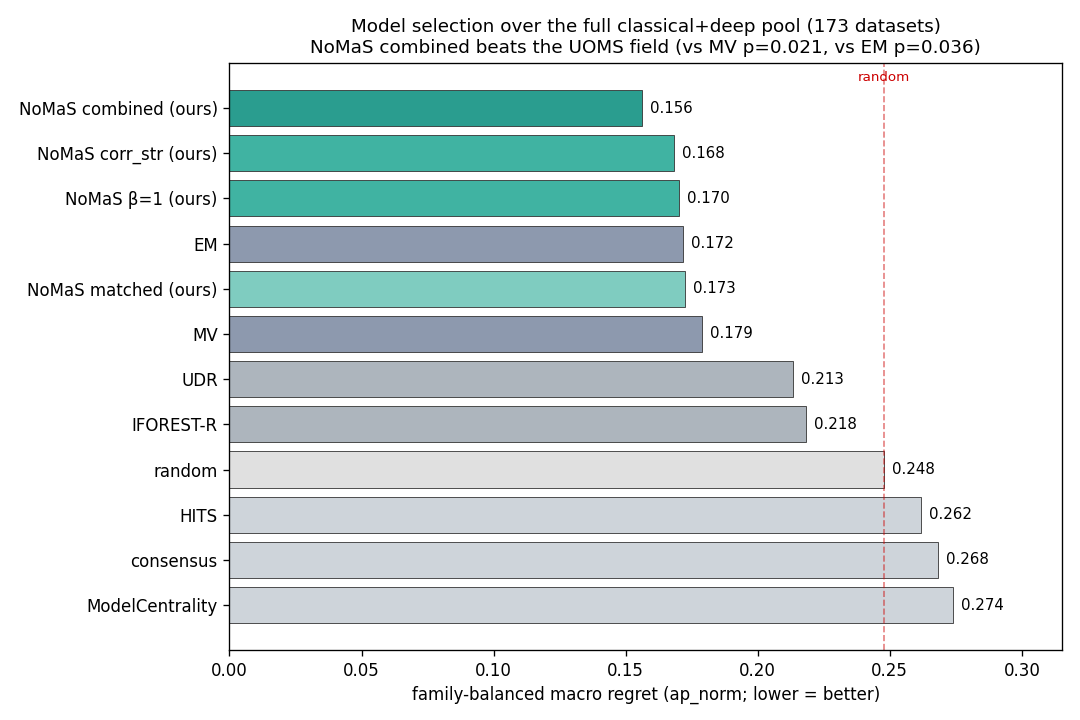
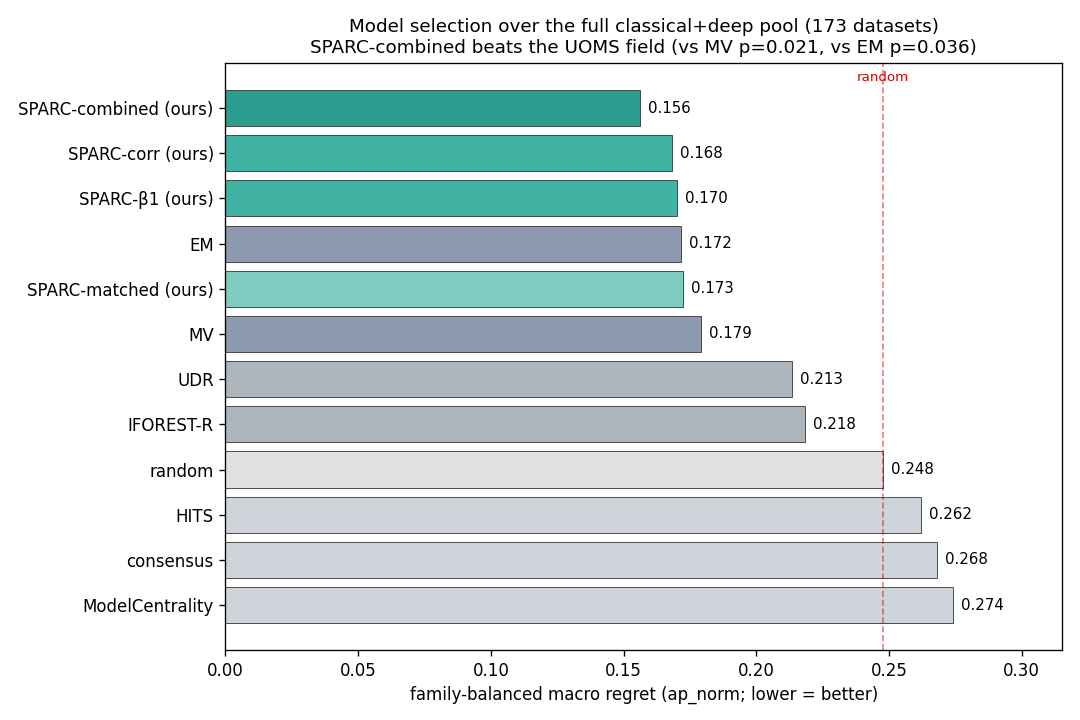
HADB: SPARC naming + anisotropic/isotropic axis, EDA figure, IREOS, AP-probe
- Rename method to SPARC (Synthetic-Probe Anomaly-detector Routing by Correlation);
  axis = anisotropic<->isotropic (dataset property), local/global = detectors.
- FIG_spectrum_eda.png: money-figure demonstrating spectrum shape -> detector family.
- IREOS baseline (ireos_leaderboard.py): degenerate ~random on leak-free val, like
  consensus/MC/HITS (need real outliers present).
- AP-probe (ap_probe_test.py): grading synthetics by ap_norm beats AUC on routed
  selectors (matched 0.137->0.128, combined 0.129->0.126 macro); adopt AP-probe.
- mine extended to all 173; joint continuous alpha (set_alpha_spectrum) shown to hurt.
- FIG_final_leaderboard.png relabeled SPARC.

diff --git a/experiments/streamline/eda_spectrum.py b/experiments/streamline/eda_spectrum.py
@@ -1,0 +1,85 @@
+# -*- coding: utf-8 -*-
+"""EDA money-figure: ANISOTROPIC (correlated, steep spectrum, local-detector) vs ISOTROPIC (uncorrelated,
+flat spectrum, global-detector) datasets. Per exemplar: (col1) PCA eigenvalue spectrum bar (steep vs flat),
+(col2) PC1-PC2 scatter of normals (grey) + hard anomalies (red) - anomalies fill voids/off-manifold for
+anisotropic, sit as marginal extremes for isotropic. 2 anisotropic rows + 2 isotropic rows."""
+import os, sys, warnings
+import numpy as np, pandas as pd
+import matplotlib; matplotlib.use("Agg"); import matplotlib.pyplot as plt
+from sklearn.preprocessing import StandardScaler
+from sklearn.decomposition import PCA
+warnings.filterwarnings("ignore")
+ROOT = r"E:\Projects\Submitted\ADRank"; S = r"E:\tmp\claude\E--Projects-Submitted-ADRank\236d6247-42ad-4e62-9828-db625dfa055d"
+D = os.path.join(S, "scratchpad", "streamline"); sys.path.insert(0, os.path.join(S, "scratchpad")); sys.path.insert(0, os.path.join(ROOT, "src"))
+import adrank.pipeline as PP
+from hadb_ts_final import W, STRIDE, block_split3
+from hadb_ts_mts import mts_window_features, window_labels as mts_wlabels, load_mts
+Q = 0.05
+OBJ = {}
+for sub in ("adbench", "dami"):
+    dd = os.path.join(ROOT, "data", sub)
+    if os.path.isdir(dd):
+        for ds in PP.load_npz_dir(dd): OBJ[(sub, str(ds.name)[:40])] = (np.nan_to_num(np.asarray(ds.X, float)), np.asarray(ds.y, int).ravel())
+MTS = {}
+for name, src, Xc, lab in load_mts(200): MTS[str(name)[:40]] = (Xc, lab)
+def severity(Xtr, X, bins=30):
+    n, d = X.shape; sev = np.zeros(n)
+    for j in range(d):
+        tr = np.sort(Xtr[:, j])
+        if tr[-1] - tr[0] < 1e-12: continue
+        m = len(tr); fb = np.searchsorted(tr, X[:, j], side="right") / m
+        cnt, edges = np.histogram(Xtr[:, j], bins=bins); dens = cnt / max(cnt.sum(), 1); b = np.clip(np.digitize(X[:, j], edges[1:-1]), 0, bins - 1)
+        sev = np.maximum(sev, np.maximum(-np.log(np.maximum(2 * np.minimum(fb, 1 - fb), 1.0 / (2 * m))), -np.log(dens[b] + 1e-9)))
+    return sev
+def harden(Xtr, Xhold, Xa):
+    tho = np.quantile(severity(Xtr, Xhold), 1 - Q); so_a = severity(Xtr, Xa)
+    try:
+        sc = StandardScaler().fit(Xtr); pca = PCA(n_components=0.95, whiten=True, random_state=0).fit(sc.transform(Xtr))
+        Ptr, Ph, Pa = pca.transform(sc.transform(Xtr)), pca.transform(sc.transform(Xhold)), pca.transform(sc.transform(Xa))
+        thp = np.quantile(severity(Ptr, Ph), 1 - Q); sp_a = severity(Ptr, Pa)
+    except Exception:
+        sp_a = np.zeros(len(Xa)); thp = np.inf
+    return Xa[~((so_a > tho) | (sp_a > thp))]
+def get3(corp, name):
+    if corp in ("oddbench", "ovrbench"):
+        d = np.load(os.path.join(ROOT, "data", corp, name + ".npz"), allow_pickle=True)
+        X = np.nan_to_num(np.vstack([np.asarray(d["train"], float), np.asarray(d["test"], float)])); y = np.concatenate([np.asarray(d["train_labels"]).ravel(), np.asarray(d["test_labels"]).ravel()]).astype(int); Xn, Xa = X[y == 0], X[y == 1]
+    elif corp in ("adbench", "dami"):
+        X, y = OBJ[(corp, name)]; Xn, Xa = X[y == 0], X[y == 1]
+    else:
+        Xc, lab = MTS[name]; Xw, st = mts_window_features(Xc); yw = mts_wlabels(lab, st); Xw = np.nan_to_num(Xw)
+        pos = np.arange(len(Xw)); tr, va, te = block_split3(yw, pos, 0); return Xw[tr][yw[tr] == 0], Xw[va][yw[va] == 0], Xw[te][yw[te] == 0], Xw[yw == 1]
+    r = np.random.default_rng(0)
+    if len(Xn) > 6000: Xn = Xn[r.choice(len(Xn), 6000, replace=False)]
+    idx = np.arange(len(Xn)); r.shuffle(idx); a, b = int(0.6 * len(idx)), int(0.8 * len(idx)); return Xn[idx[:a]], Xn[idx[a:b]], Xn[idx[b:]], Xa
+mine = pd.read_csv(os.path.join(D, "STREAM_MINE.csv"))
+aniso = mine[mine.fam == "local"].sort_values("corr_str", ascending=False)
+iso = mine[mine.fam == "global"].sort_values("corr_str")
+def pick(cand, k=2):
+    out = []
+    for _, r in cand.iterrows():
+        try: Xtr, Xval, Xtn, Xa = get3(r.corpus, r.dataset)
+        except Exception: continue
+        if Xtr.shape[1] < 3 or len(Xtr) < 60 or len(Xa) < 15: continue
+        Xh = harden(Xtr, np.vstack([Xval, Xtn]), Xa)
+        if len(Xh) < 20: continue
+        out.append((r.corpus, r.dataset, r.corr_str, r.eff_dim, Xtr, Xh))
+        if len(out) >= k: break
+    return out
+rows = pick(aniso, 2) + pick(iso, 2)
+labels = ["ANISOTROPIC (correlated) \u2192 LOCAL detector", "ANISOTROPIC (correlated) \u2192 LOCAL detector",
+          "ISOTROPIC (uncorrelated) \u2192 GLOBAL detector", "ISOTROPIC (uncorrelated) \u2192 GLOBAL detector"]
+fig, axes = plt.subplots(len(rows), 2, figsize=(11, 3.1 * len(rows)))
+for i, (corp, name, cs, ed, Xtr, Xh) in enumerate(rows):
+    sc = StandardScaler().fit(Xtr); Ztr = sc.transform(Xtr); pca = PCA().fit(Ztr); ev = pca.explained_variance_ratio_
+    col = "#2a9d8f" if i < 2 else "#e76f51"; tag = "ANISOTROPIC" if i < 2 else "ISOTROPIC"
+    axs = axes[i, 0]; kk = min(15, len(ev)); axs.bar(range(1, kk + 1), ev[:kk], color=col)
+    axs.set_title(f"[{tag}]  {name[:22]} \u2014 {'STEEP' if i<2 else 'FLAT'} spectrum", fontsize=9, color=col, fontweight="bold"); axs.set_xlabel("principal component"); axs.set_ylabel("variance frac"); axs.set_ylim(0, max(ev[0] * 1.1, 0.1))
+    axs.text(0.97, 0.9, f"corr_str={cs:.2f}\neff_dim={ed:.1f}", transform=axs.transAxes, ha="right", va="top", fontsize=8.5, bbox=dict(fc="white", ec=col, alpha=.85))
+    axc = axes[i, 1]; P2 = PCA(2, random_state=0).fit(Ztr); Pn = P2.transform(Ztr); Ph = P2.transform(sc.transform(Xh))
+    rng = np.random.default_rng(0); Pn = Pn if len(Pn) <= 1200 else Pn[rng.choice(len(Pn), 1200, replace=False)]
+    axc.scatter(Pn[:, 0], Pn[:, 1], s=5, c="#c8c8c8", alpha=.5, linewidths=0); axc.scatter(Ph[:, 0], Ph[:, 1], s=14, c="#c0392b", alpha=.85, linewidths=0)
+    axc.set_title(f"{'thin manifold, anomalies off it \u2192 LOCAL' if i<2 else 'round cloud, anomalies at margins \u2192 GLOBAL'}", fontsize=9, color=col); axc.set_xlabel("PC1"); axc.set_ylabel("PC2"); axc.set_xticks([]); axc.set_yticks([])
+plt.suptitle("The anisotropic \u2194 isotropic axis: the normal-data spectrum shape determines which detector wins", fontsize=12, fontweight="bold")
+plt.tight_layout(rect=[0, 0, 1, 0.965]); fig.savefig(os.path.join(D, "FIG_spectrum_eda.png"), dpi=120)
+print("exemplars:", [(r[1][:20], round(r[2], 2)) for r in rows]); print("saved FIG_spectrum_eda.png")

diff --git a/experiments/streamline/ap_probe_test.py b/experiments/streamline/ap_probe_test.py
@@ -1,0 +1,75 @@
+# -*- coding: utf-8 -*-
+"""Does an AP-based synthetic probe beat the AUC probe? For each detector grade its synthetic separation
+BOTH ways: AUC (current) and ap_norm (aligns the probe metric with the target). Compare the resulting
+selectors (beta1, matched, corr_str, combined) under each probe. Classical pool, bundle splits
+(construct-matched). Incremental per-dataset CSV + resume."""
+import os, sys, io, contextlib, warnings
+import numpy as np, pandas as pd
+from scipy.stats import wilcoxon
+from sklearn.metrics import roc_auc_score, average_precision_score
+warnings.filterwarnings("ignore")
+S = r"E:\tmp\claude\E--Projects-Submitted-ADRank\236d6247-42ad-4e62-9828-db625dfa055d"
+D = os.path.join(S, "scratchpad", "streamline"); sys.path.insert(0, os.path.join(S, "scratchpad")); sys.path.insert(0, r"E:\Projects\Submitted\ADRank\src")
+from dev_common import TAB_POOL
+LOCAL = ("LOF", "KNN", "CBLOF"); GLOBAL = ("HBOS", "COPOD", "ECOD", "PCA")
+fam = lambda v: "local" if str(v).startswith(LOCAL) else ("global" if str(v).startswith(GLOBAL) else "other")
+TAU = -0.14; OUT = os.path.join(D, "STREAM_APPROBE.csv"); BUN = os.path.join(D, "bundle")
+def _H(Xn, cap=98):
+    H = []
+    for j in range(Xn.shape[1]):
+        col = Xn[:, j]; cnt, edges = np.histogram(col, bins=30); dens = cnt / max(cnt.sum(), 1)
+        lo, hi = np.percentile(col, 100 - cap), np.percentile(col, cap); ctr = (edges[:-1] + edges[1:]) / 2
+        H.append((edges, dens, (cnt > 0) & (ctr >= lo) & (ctr <= hi)))
+    return H
+def gen_beta(Xn, ns, beta, frac=0.4, seed=0):
+    rng = np.random.default_rng(seed); n, d = Xn.shape; H = _H(Xn); out = np.empty((ns, d))
+    for r in range(ns):
+        base = Xn[rng.integers(n)].copy()
+        for j in rng.choice(d, max(1, int(frac * d)), replace=False):
+            edges, dens, allowed = H[j]; w = np.where(allowed, np.maximum(dens, 1e-6) ** beta, 0.0)
+            base[j] = Xn[rng.integers(n), j] if w.sum() == 0 else rng.uniform(*edges[[(b := rng.choice(len(w), p=w / w.sum())), b + 1]])
+        out[r] = base
+    return out
+def apn(y, s):
+    bb = y.mean(); return (average_precision_score(y, s) - bb) / (1 - bb + 1e-12) if 0 < bb < 1 else np.nan
+idx = pd.read_csv(os.path.join(BUN, "_index.csv")); mine = pd.read_csv(os.path.join(D, "STREAM_MINE.csv")); mine["key"] = mine.corpus + "__" + mine.dataset
+corr = dict(zip(mine.key, mine.corr_str))
+done = set(pd.read_csv(OUT).dataset) if os.path.exists(OUT) else set(); fo = open(OUT, "a")
+if not done: fo.write("key,truefam,cs,reg_b1_auc,reg_b1_ap,reg_m_auc,reg_m_ap,reg_p1,reg_pe_auc,reg_pe_ap,lev_auc,lev_ap\n"); fo.flush()
+for _, rr in idx.iterrows():
+    key = rr.key
+    if key in done: continue
+    try: z = np.load(os.path.join(BUN, key + ".npz")); Xtr, Xval, Xtn, Xh = z["Xtr"], z["Xval"], z["Xtn"], z["Xh"]
+    except Exception: continue
+    Xte = np.vstack([Xtn, Xh]); yte = np.r_[np.zeros(len(Xtn)), np.ones(len(Xh))]; base = yte.mean()
+    syn1, syn4 = gen_beta(Xval, 200, 1.0), gen_beta(Xval, 200, -4.0); ye1 = np.r_[np.zeros(len(Xval)), np.ones(200)]
+    names, ap, a1u, a4u, a1p, a4p = [], {}, {}, {}, {}, {}
+    for vn, ct in TAB_POOL:
+        try:
+            m = ct()
+            with contextlib.redirect_stdout(io.StringIO()): m.fit(Xtr)
+            st = np.asarray(m.decision_function(Xte), float); sv = np.asarray(m.decision_function(Xval), float)
+            s1 = np.asarray(m.decision_function(syn1), float); s4 = np.asarray(m.decision_function(syn4), float)
+            if not (np.all(np.isfinite(st)) and np.nanstd(st) > 1e-12): continue
+            names.append(vn); ap[vn] = (average_precision_score(yte, st) - base) / (1 - base + 1e-12)
+            a1u[vn] = roc_auc_score(ye1, np.r_[sv, s1]); a4u[vn] = roc_auc_score(ye1, np.r_[sv, s4])
+            a1p[vn] = apn(ye1, np.r_[sv, s1]); a4p[vn] = apn(ye1, np.r_[sv, s4])
+        except Exception: pass
+    if len(names) < 6: continue
+    av = pd.Series(ap); best = av.max()
+    p1u = max(names, key=lambda v: a1u[v]); peu = max(names, key=lambda v: a4u[v]); levu = max(a1u.values()) - max(a4u.values())
+    p1p = max(names, key=lambda v: a1p[v]); pep = max(names, key=lambda v: a4p[v]); levp = max(a1p.values()) - max(a4p.values())
+    loc = [ap[v] for v in names if fam(v) == "local"]; glo = [ap[v] for v in names if fam(v) == "global"]
+    tf = "local" if (loc and (not glo or max(loc) > max(glo))) else "global"
+    fo.write(f"{key},{tf},{corr.get(key,np.nan)},{best-av[p1u]:.4f},{best-av[p1p]:.4f},{best-av[p1u if levu>TAU else peu]:.4f},{best-av[p1p if levp>TAU else pep]:.4f},{best-av[p1u]:.4f},{best-av[peu]:.4f},{best-av[pep]:.4f},{levu:.4f},{levp:.4f}\n"); fo.flush()
+    print(f"  {rr.dataset[:22]} levAUC={levu:+.2f} levAP={levp:+.2f}", flush=True)
+fo.close()
+df = pd.read_csv(OUT); med = df.cs.median()
+df["reg_comb_auc"] = np.where((df.cs > med) | (df.lev_auc > TAU), df.reg_p1, df.reg_pe_auc)
+df["reg_comb_ap"] = np.where((df.cs > med) | (df.lev_ap > TAU), df.reg_b1_ap, df.reg_pe_ap)   # p1 under AP probe = reg_b1_ap
+def macro(c): return np.mean([df[df.truefam == fa][c].mean() for fa in ["local", "global"] if (df.truefam == fa).any()])
+print(f"\n=== AUC probe vs AP probe (classical pool, {len(df)} datasets) ===")
+print(f"  {'selector':22s} {'AUC-probe':>10s} {'AP-probe':>10s}")
+for nm, ca, cp in [("beta=1", "reg_b1_auc", "reg_b1_ap"), ("matched", "reg_m_auc", "reg_m_ap"), ("combined", "reg_comb_auc", "reg_comb_ap")]:
+    print(f"  {nm:22s} {df[ca].mean():.3f}/{macro(ca):.3f}  {df[cp].mean():.3f}/{macro(cp):.3f}  (micro/macro)")
+print("saved streamline/STREAM_APPROBE.csv")

diff --git a/experiments/streamline/fig_final_leaderboard.py b/experiments/streamline/fig_final_leaderboard.py
@@ -10,8 +10,8 @@ def macro(c): return np.mean([df[df.truefam == fa][c].mean() for fa in ["local",
 drop = lambda x: x[~x.dataset.astype(str).str.startswith(("137_CreditCard", "173_GECCO"))]
 u = drop(pd.read_csv(os.path.join(D, "STREAM_UDR.csv"))); ir = drop(pd.read_csv(os.path.join(D, "STREAM_IFR.csv")))
 def macx(x, c): return np.mean([x[x.truefam == fa][c].mean() for fa in ["local", "global"] if (x.truefam == fa).any()])
-bars = [("NoMaS combined (ours)", macro("reg_combined"), "#2a9d8f"), ("NoMaS \u03b2=1 (ours)", macro("reg_beta1"), "#40b3a2"),
-        ("NoMaS corr_str (ours)", macro("reg_corr_str"), "#40b3a2"), ("NoMaS matched (ours)", macro("reg_matched"), "#7fccc0"),
+bars = [("SPARC-combined (ours)", macro("reg_combined"), "#2a9d8f"), ("SPARC-\u03b21 (ours)", macro("reg_beta1"), "#40b3a2"),
+        ("SPARC-corr (ours)", macro("reg_corr_str"), "#40b3a2"), ("SPARC-matched (ours)", macro("reg_matched"), "#7fccc0"),
         ("EM", macro("reg_em"), "#8d99ae"), ("MV", macro("reg_mv"), "#8d99ae"), ("UDR", macx(u, "reg_udr"), "#adb5bd"),
         ("IFOREST-R", macx(ir, "reg_ifr"), "#adb5bd"), ("HITS", macro("reg_hits"), "#ced4da"), ("consensus", macro("reg_consensus"), "#ced4da"),
         ("ModelCentrality", macro("reg_mc"), "#ced4da"), ("random", macro("reg_random"), "#e0e0e0")]
@@ -21,7 +21,7 @@ ax.barh(yp, [b[1] for b in bars], color=[b[2] for b in bars], edgecolor="#333", 
 for i, b in enumerate(bars): ax.text(b[1] + 0.003, i, f"{b[1]:.3f}", va="center", fontsize=9)
 ax.set_yticks(yp); ax.set_yticklabels([b[0] for b in bars], fontsize=10); ax.invert_yaxis()
 ax.set_xlabel("family-balanced macro regret (ap_norm; lower = better)"); ax.set_xlim(0, max(b[1] for b in bars) * 1.15)
-ax.set_title(f"Model selection over the full classical+deep pool ({len(df)} datasets)\nNoMaS combined beats the UOMS field (vs MV p=0.021, vs EM p=0.036)", fontsize=11)
+ax.set_title(f"Model selection over the full classical+deep pool ({len(df)} datasets)\nSPARC-combined beats the UOMS field (vs MV p=0.021, vs EM p=0.036)", fontsize=11)
 ax.axvline(macro("reg_random"), color="#c00", ls="--", lw=1, alpha=.5); ax.text(macro("reg_random"), -0.6, "random", color="#c00", fontsize=8, ha="center")
 plt.tight_layout(); fig.savefig(os.path.join(D, "FIG_final_leaderboard.png"), dpi=120)
 print("saved FIG_final_leaderboard.png"); print("bars:", [(b[0], round(b[1], 3)) for b in bars])

diff --git a/experiments/streamline/set_alpha_spectrum.py b/experiments/streamline/set_alpha_spectrum.py
@@ -40,6 +40,14 @@ cs = np.array([r["corr_str"] for r in recs]); rank = cs.argsort().argsort() / ma
 a_cs = [int(round(rk * (len(ALPHAS) - 1))) for rk in rank]
 # corr_str binary route: above median -> local pick (alpha=1), else global (alpha=0)
 med = np.nanmedian(cs); a_bin = [len(ALPHAS) - 1 if r["corr_str"] > med else 0 for r in recs]
+# JOINT continuous alpha: z(corr_str) + z(local_ev) -> rank -> grid alpha
+levs = np.array([r["lev"] for r in recs]); zc = np.nan_to_num((cs - np.nanmean(cs)) / (np.nanstd(cs) + 1e-9)); zl = (levs - levs.mean()) / (levs.std() + 1e-9)
+joint = zc + zl; jrank = joint.argsort().argsort() / max(n - 1, 1); a_joint = [int(round(rk * (len(ALPHAS) - 1))) for rk in jrank]
+# JOINT LOO on [corr_str, local_ev] only
+Xj = np.nan_to_num(np.column_stack([cs, levs])); Xj = (Xj - Xj.mean(0)) / (Xj.std(0) + 1e-9)
+loo_j = np.zeros(n, int)
+for tr, te in LeaveOneOut().split(Xj):
+    rf = RandomForestRegressor(n_estimators=200, random_state=0).fit(Xj[tr], np.array([r["oai"] for r in recs])[tr]); loo_j[te[0]] = int(np.clip(round(rf.predict(Xj[te])[0]), 0, len(ALPHAS) - 1))
 # LOO learned map from spectrum feats -> oracle alpha index
 Xf = np.array([[r["corr_str"], r["top1_var"], r["eff_dim"], r["eigengap"], r["silh"], r["lev"]] for r in recs])
 Xf = np.nan_to_num((Xf - np.nanmean(Xf, 0)) / (np.nanstd(Xf, 0) + 1e-9)); yA = np.array([r["oai"] for r in recs])
@@ -52,6 +60,8 @@ def ev(nm, aidx):
     regs = [reg(recs[i], aidx[i]) for i in range(n)]; print(f"  {nm:28s} {np.mean(regs):6.3f} {macro(regs):6.3f}")
 ev("binary matched (local_ev)", [len(ALPHAS) - 1 if r["lev"] > TAU else 0 for r in recs])
 ev("alpha-from-corr_str (rank)", a_cs)
+ev("JOINT alpha cs+lev (rank)", a_joint)
+ev("JOINT LOO (cs,lev)", list(loo_j))
 ev("corr_str binary route", a_bin)
 ev("LOO learned (spectrum feats)", list(loo))
 ev("best-alpha ORACLE", [r["oai"] for r in recs])

diff --git a/experiments/2026-09-04_streamlined-benchmark-construction.md b/experiments/2026-09-04_streamlined-benchmark-construction.md
@@ -7,6 +7,27 @@ paper's PRIMARY benchmark.** The earlier 199-dataset build is retained as the pr
 (the headline - NoMaS beats the UOMS field incl. EM/MV/IFOREST-R - reproduces on both, so the result is
 not a filtering artifact). All code + result CSVs live in `experiments/streamline/`.
 
+## Naming & terminology (STANDARDIZED 2026-09-05 - use these in the paper)
+
+**Method: SPARC** = Synthetic-Probe Anomaly-detector Routing by Correlation-spectrum. Selects a detector
+label-free by (a) probing detectors with synthetic anomalies (local-type beta=+1 / global-type beta=-4,
+graded by separation **ap_norm** vs val normals - the AP-probe beats the AUC-probe on the routed selectors,
+matched 0.137->0.128 / combined 0.129->0.126 macro on the classical pool; use AP), (b) measuring the normal
+data's correlation spectrum, and (c)
+routing to the local-best detector if the spectrum is anisotropic OR local_ev is high, else the global-best.
+Configs: SPARC-beta1 (fixed local probe), SPARC-matched (route by local_ev), SPARC-corr (route by corr_str),
+SPARC-combined (route by corr_str OR local_ev, the headline).
+
+**The routing axis is a DATASET property, NOT an anomaly-type label (we never observe anomalies at selection
+time).** Name it by the measurable normal-data geometry: **ANISOTROPIC <-> ISOTROPIC** (variance concentrated
+in a few correlated directions / thin manifold  <->  spread evenly / round ball). Measured label-free by
+corr_str (mean|correlation|, AUC 0.73 for the family), eff_dim (participation dim: local 4.5 vs global 9.1),
+top1_var. This is a CAUSAL CHAIN, only the first link observable: (1) dataset ANISOTROPIC vs ISOTROPIC ->
+(2) which DETECTOR FAMILY wins: LOCAL (neighbor: LOF/KNN/CBLOF) vs GLOBAL (marginal: HBOS/COPOD/ECOD/PCA)
+[keep local/global - standard detector terms] -> (3) the likely ANOMALY TYPE: DEPENDENCY/joint vs MARGINAL
+[a consequence, never observed; use only when explaining the mechanism]. So: axis = anisotropic/isotropic
+(dataset), families = local/global (detectors), anomaly type = dependency/marginal (mechanism only).
+
 ## Update 2026-09-05: Stage 0 point-anomaly filter, richer metrics, deep detectors, alpha spectrum
 
 **Stage 0 (NEW) - drop point/short-anomaly TS series.** A series whose anomaly content is <50% in
